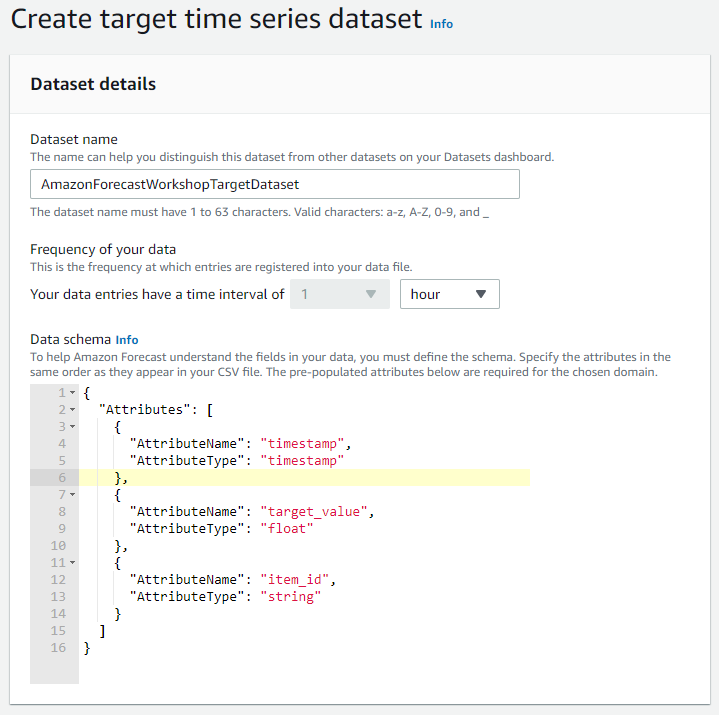
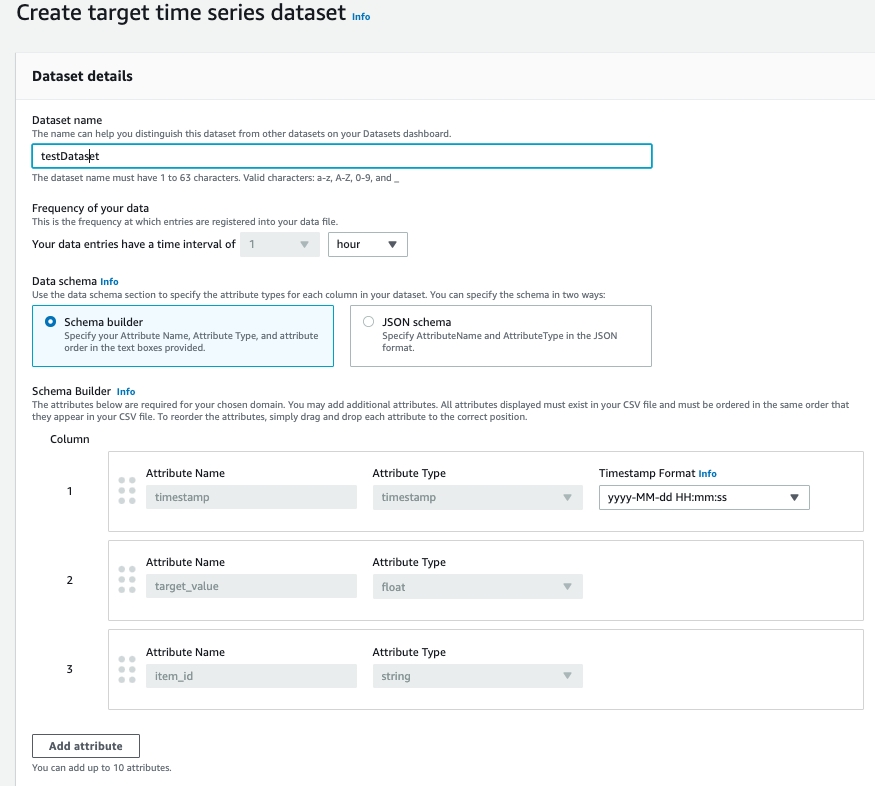
new Readme file

diff --git a/no_code_workshop/Readme.md b/no_code_workshop/Readme.md
@@ -3,10 +3,6 @@
 
 Introduction: Amazon Forecast is a machine learning service that provides prediction based on time series data provided by AWS.
 
-## Region selection
-Please check with your instructor about the regions where you will be working for this hands-on. You can change it by selecting the region name in the upper right of the screen:
-
-![Region selection](pictures/region_selection.png "Region selection")
  
 ## Download data for learning
 [This CSV file](data/electricityusagedata.csv) includes power consumption data for individual households. Here's a snippet of this file:
@@ -22,34 +18,17 @@ Amazon Forecast imports the training data from any S3 bucket:
 1. Access the S3 management console by typing S3 as shown below:
 
 ![Access S3 console](pictures/console_s3.png)
- 
-<!-- 2. Press **Create Bucket**
 
-![Create S3 Bucket](pictures/s3_create_bucket.png)
-
-3. Enter an appropriate name in **Bucket Name**
-
-The S3 bucket must have a reasonably long name because it must be unique across all AWS users. Specify the same region as the region in which you will be working on Amazon Forecast.
-
-![Create S3 Bucket Dialog Box](pictures/s3_create_bucket_dialog.png)
-
-Click the **Create** button on the bottom left of this dialog box to create an S3 buckets with default parameters.
-
-4. Click on the name of the created bucket
-
-![Created bucket](pictures/s3_bucket_created.png) -->
-
-5. Press **Upload**
+2. Press **Upload**
 
 ![Upload file to bucket](pictures/s3_upload.png)
 
-6. Select `electricityusagedata.csv` downloaded earlier by dragging and dropping the file or by clicking the **Add files** button.
+3. Select `electricityusagedata.csv` downloaded earlier by dragging and dropping the file or by clicking the **Add files** button.
 
 ![Select file to upload](pictures/s3_upload_selected.png)
 
-7. Click the **Upload** button at the bottom left of the screen to start uploading.
-
-8. The following screen will be displayed when the upload is completed.
+4. Click the **Upload** button at the bottom left of the screen to start uploading.
+5. The following screen will be displayed when the upload is completed.
 
 ![Upload completed](pictures/s3_upload_completed.png)
 
@@ -106,44 +85,24 @@ Then, press **Create dataset group** on the interface below: a dataset group is 
 
 ![Forecast Target Dataset](pictures/forecast_target_dataset_step2.png)
 
-4. To match the value of **Data Schema** to the order of the original data to be trained on, replace the data schema by the following value:
-
-```json
-{
-  "Attributes": [
-    {
-      "AttributeName": "timestamp",
-      "AttributeType": "timestamp"
-    },
-    {
-      "AttributeName": "target_value",
-      "AttributeType": "float"
-    },
-    {
-      "AttributeName": "item_id",
-      "AttributeType": "string"
-    }
-  ]
-}
-```
-
-5. Press **Next**
-
-6. If the following green bar is displayed, the dataset is set correctly:
+4. To match the Data Schema, re-order the columns by dragging and dropping at the right order. 
+  
+   
+<!-- 2. If the following green bar is displayed, the dataset is set correctly:
 
 ![Forecast import successful](pictures/forecast_dataset_created.png)
 
-Next, click **Import**
+Next, click **Import** -->
 
-1. Enter an appropriate name in **Data set import name**. **Time stamp format** must be a notation that matches the original data to be imported, but in this hands-on the original data and the default value are the same, so leave it as it is. Paste the name of the IAM Role ARN  in **Custom IAM role ARN**.
+5. Enter an appropriate name in **Data set import name**. Browse S3 to locate ``electricityusagedata.csv`` and create a new IAM Role ARN  in **Custom IAM role ARN**. Click **Start**.
 
 ![Forecast Target Dataset](pictures/forecast_import_target_dataset.png)
 
-8. Enter the source data for learning that you uploaded earlier in **Data location** in the following format, and click **Start Import**: `s3://<bucket name>/electricityusagedata.csv`.
+ 6. In the list of your data set groups now you should see the data set group you created. 
 
-![Forecast Start Import](pictures/forecast_start_import.png)
+![Forecast DS Group Created](pictures/ds_group_created.png) 
 
-1. Import will start and the following screen will appear:
+7. Click on the name of the data set; the following screen will appear:
 
 ![Forecast import dataset pending](pictures/forecast_import_dataset_pending.png)
 
@@ -156,25 +115,18 @@ Now that the data has been imported, we can start learning a new model from thes
 
 ![Predictor Start](pictures/predictor_start.png)
 
-1. Press **Start** in the **Train a predictor** section:
+1. Press **Start** in the **Train a predictor** section. Enter an appropriate name in Predictor name. **Forecast horizon** is the time interval for forecasting. In this hands-on, enter **36** to create a forecast of 36-intervals long (for 36 hours in this case). **Forecast frequency** must be the same as the original data, so select **hour**. Leave **Algorithm selection** as **Manual** and select **DeepAR+** for **Algorithm**. Click **Start**.
 
-![Predictor Start](pictures/predictor_name.png)
 
-2. Enter an appropriate name in Predictor name. **Forecast horizon** is the time interval for forecasting. In this hands-on, enter **36** to create a forecast of 36-intervals long (for 36 hours in this case):
-
-![Predictor Continue](pictures/predictor_details.png)
-
-3. **Forecast frequency** must be the same as the original data, so select **hour**. Leave **Algorithm selection** as **Manual** and select **ETS** for **Algorithm**.
-
-4. Press **Train predictor** with all remaining values unchanged.
+2. On the **Dashboard**, click **View Predictors** to see
 
 ![Predictor Train](pictures/predictor_train.png)
 
-5. Learning has started when the following message is displayed:
+3. Learning has started when the following message is displayed:
 
 ![Predictor Pending](pictures/predictor_pending.png)
 
-6. Learning is completed when **Active** is displayed as shown below:
+4. Learning is completed when **Active** is displayed as shown below:
 
 ![Predictor Active](pictures/predictor_active.png)
 
@@ -184,12 +136,11 @@ Now that learning is done, let's create an endpoint to request some predictions:
 ![Forecast start](pictures/generate_forecast_start.png)
 
 1. Click the **Start** button next to the **Generate forecasts** section on the right side of the screen.
- 
-2．　Enter an appropriate name in **Forecast name**. From the **Predictor** dropdown, select the name you gave to the model trained earlier:
+2. Enter an appropriate name in **Forecast name**. From the **Predictor** dropdown, select the name you gave to the model trained earlier:
 
 ![Forecast details](pictures/generate_forecast_details.png)
  
-3. Press the **Create a forecast** button.
+3. Press the **Start** button.
  
 4. This will take some time, as the prediction endpoint will start:
 
@@ -209,7 +160,7 @@ Let's make a prediction from the trained predictor:
 * *End date* – Enter `01/02/2015`. Change the time to `12:00:00`.
 * Enter the ID of a client included in the initial data source data in [Value]. (Example: `client_2`)
 
-2.　 Pressing [Get Forecast] will output the prediction as a graph as shown below:
+5. Pressing **Get Forecast** will output the prediction as a graph as shown below:
 
 ![Prediction plot](pictures/prediction_example.png)
  
